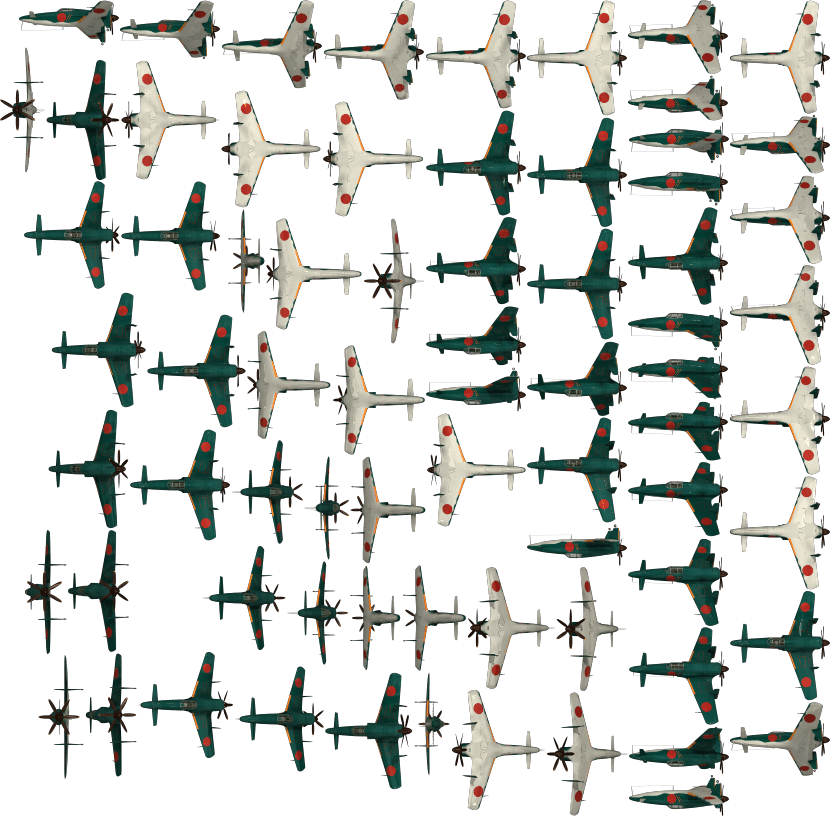
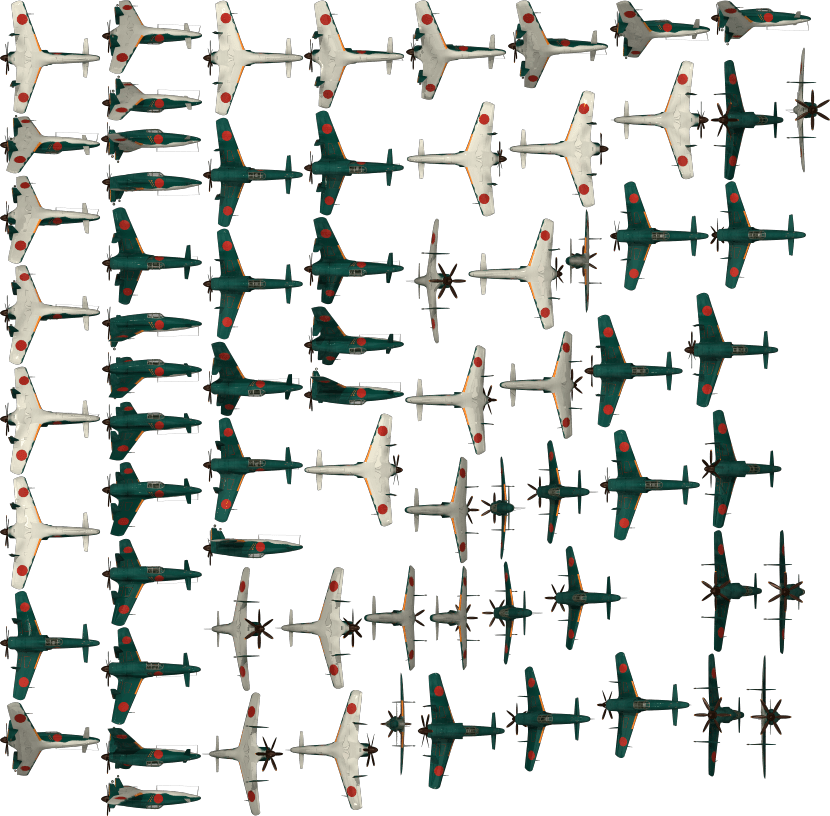
手机版章节列表可触摸滚动+滚动条；飞行员铭牌改金属铭牌样式；修正 J7W 震电图集朝向(推进式机，之前被误镜像)

diff --git a/WW1Fighters/index.html b/WW1Fighters/index.html
@@ -21351,6 +21351,8 @@ s.showTaskInfo = function() {
         this.lightMc.visible || (this.chapterName.color = t ? "#ffffff" : "#aaaaaa", this.moneyTxt.color = t ? "#ffffff" : "#aaaaaa")
       }, s.onClick = function() {
         var t = this;
+        // 手指在章节列表上拖动滚动时，抬手那下不要当成点选章节
+        if (window.__wbChapterDragging) return;
         if (0 == this._dataSource.state) this._dataSource.wnd.event("select", this._dataSource);
         else if (1 == this._dataSource.state) e = "是否花费 " + this._dataSource.money + "银币，开启该章节", i = new ur(e), b.popUpDialog(i), i.confirmHandle = _.create(this, function() {
           y.storage.silver < t._dataSource.money ? b.showMessage("银币不足") : (t._dataSource.state = 0, t._dataSource.selected = !0, y.storage.missionCfg[t._dataSource.index].state = 0, y.storage.silver -= t._dataSource.money, y.saveData(), t._dataSource.wnd.event("select", t._dataSource))
@@ -21406,7 +21408,7 @@ s.showTaskInfo = function() {
           a.init(r), a.on("click", this, this.onGameStart), a.on("mouseover", this, this.onItemOver)
         }
         for (var u = 0; u < t.length; u++) t[u].selected = !1;
-        this.setSelectChapter(t[0]), this.backBtn.on("click", this, this.onBackBtnClick), this.on("click", this, this.onMouseClick), i.stage.on("mousewheel", this, this.onWheel), i.stage.on("resize", this, this.onResize), this.initTwoPlayerUI(), this.onResize()
+        this.setSelectChapter(t[0]), this.backBtn.on("click", this, this.onBackBtnClick), this.on("click", this, this.onMouseClick), i.stage.on("mousewheel", this, this.onWheel), i.stage.on("resize", this, this.onResize), this.initTwoPlayerUI(), this.initChapterScroll(), this.onResize()
       }
       n(e, "com.ocean.ui.MissionUI", t);
       var s = e.prototype;
@@ -21460,7 +21462,63 @@ s.showTaskInfo = function() {
           $n.instance && ($n.instance.visible = !0);
         try { $n.instance && $n.instance._wbRefreshOwner && $n.instance._wbRefreshOwner() } catch (e) {}
       },
-      s.onResize = function() {
+        // ===== 手机版：左侧章节列表触摸拖动滚动 =====
+        // 原实现只监听 stage 的 mousewheel，触屏设备根本没有滚轮事件，
+        // 于是第 9/10 章（列表 384px 只放得下 8 行 x 48px）在手机上永远滑不出来。
+        // 这里补一套按下-拖动-抬手的手势：位移按行高换算成 List.startIndex。
+        s.initChapterScroll = function() {
+          if (this.__wbChScroll || !this.chapterList) return;
+          this.__wbChScroll = !0;
+          var self = this, lst = this.chapterList, drag = null;
+          lst.mouseEnabled = !0, window.__wbChapterDragging = !1;
+          var hitList = function() {
+            var p = lst.localToGlobal(new Laya.Point(0, 0));
+            if (!p) return !1;
+            var mx = i.stage.mouseX, my = i.stage.mouseY;
+            return mx >= p.x - 10 && mx <= p.x + lst.width + 10 && my >= p.y - 10 && my <= p.y + lst.height + 10;
+          };
+          lst.on("mousedown", this, function() {
+            if (!hitList()) return;
+            drag = { y: i.stage.mouseY, base: lst.startIndex || 0, moved: !1 }, window.__wbChapterDragging = !1
+          });
+          i.stage.on("mousemove", this, function() {
+            if (!drag) return;
+            var dy = i.stage.mouseY - drag.y;
+            if (!drag.moved && Math.abs(dy) < 12) return;
+            // 手指向上拖(dy<0) => 看后面的章节 => startIndex 变大
+            drag.moved = !0, window.__wbChapterDragging = !0, self.wbChSetStart(drag.base - Math.floor(dy / self.wbChRowH()))
+          });
+          i.stage.on("mouseup", this, function() {
+            // Laya 的 click 紧跟 mouseup 派发，延后一点再解除抑制，避免拖动后被当成点选
+            drag && (drag = null, i.timer.once(60, self, function() {
+              window.__wbChapterDragging = !1
+            }))
+          });
+          this.wbChUpdateBar()
+        }, s.wbChRowH = function() {
+          var lst = this.chapterList;
+          if (!lst) return 48;
+          var n = lst.getCell(lst.startIndex || 0) || lst.getCell(0);
+          return n && n.height ? n.height : 48
+        }, s.wbChMaxStart = function() {
+          var lst = this.chapterList;
+          if (!lst || !lst.array || !lst.array.length) return 0;
+          return Math.max(0, lst.array.length - Math.max(1, Math.floor(lst.height / this.wbChRowH())))
+        }, s.wbChSetStart = function(t) {
+          var lst = this.chapterList, m = this.wbChMaxStart();
+          lst && (lst.startIndex = t < 0 ? 0 : t > m ? m : t, this.wbChUpdateBar())
+        }, s.wbChUpdateBar = function() {
+          var lst = this.chapterList;
+          if (!lst) return;
+          var m = this.wbChMaxStart();
+          this.chBar || (this.chBar = new Gi, this.chBar.mouseEnabled = !1, this.addChild(this.chBar));
+          var b = this.chBar, W = 5, H = lst.height;
+          if (b.pos(lst.x + lst.width - W - 2, lst.y), b.visible = m > 0, m <= 0) return;
+          var vis = Math.max(1, Math.floor(H / this.wbChRowH())),
+            th = Math.max(24, H * vis / lst.array.length),
+            ty = (H - th) * (lst.startIndex || 0) / m;
+          b.graphics.clear(), b.graphics.drawRect(0, 0, W, H, "rgba(0,0,0,0.35)"), b.graphics.drawRect(0, ty, W, th, "#e8c56a"), b.repaint()
+        }, s.onResize = function() {
         this.bkImg.width = i.stage.width, this.maskImg.width = i.stage.width, this.moneyBar.x = i.stage.width - 614, this.itemBox.x = i.stage.width / 2 + 40, this.infoPanel.x = i.stage.width - 290, this.y = (i.stage.height - 750) / 2, this.itemBox.width = this.map12.x + this.map12.width, this.itemBox.height = this.map12.y + this.map12.height
       }, s.onSelectChapter = function(t) {
         this.setSelectChapter(t)
@@ -21517,7 +21575,7 @@ s.showTaskInfo = function() {
               s = Math.max(1, Math.floor(e.height / r)),
               a = Math.max(0, e.array.length - s),
               h = e.startIndex + (t.delta > 0 ? -1 : 1);
-            e.startIndex = 0 > h ? 0 : h > a ? a : h
+            this.wbChSetStart(h)
           }
         }
       }, s.onBackBtnClick = function() {
@@ -22282,20 +22340,49 @@ s.showTaskInfo = function() {
           i = Math.floor(t % 3600 / 60),
           s = t % 60;
         return e > 0 ? e + "小时" + i + "分" : i > 0 ? i + "分" + s + "秒" : s + "秒"
-      }, s.initPilotPlate = function() {
-        var t = new Gi,
-          e = 210,
-          i = 46;
-        t.size(e, i), t.pos(16, 14), t.graphics.drawRect(0, 0, e, i, "#0b1d2be6", "#e8c56a", 2);
-        var s = new us;
-        s.text = y.storage.pilotName || "飞行员", s.font = "SimHei", s.fontSize = 22, s.color = "#ffe9a8", s.width = e, s.align = "center", s.y = 9, t.addChild(s), t.mouseEnabled = !0, t.on("click", this, this.onPilotPlateClick), t.on("mouseover", this, function() {
-          s.color = "#ffffff"
-        }), t.on("mouseout", this, function() {
-          s.color = "#ffe9a8"
-        }), this.addChild(t), this.pilotPlate = t, this.pilotNameTxt = s
-      }, s.refreshPilotPlate = function() {
-        this.pilotNameTxt && (this.pilotNameTxt.text = y.storage.pilotName || "飞行员")
-      }, s.onPilotPlateClick = function() {
+      },
+        // 飞行员铭牌：做成"金属铭牌 + 军徽 + 战绩副行"的样式（原来只是一块纯色矩形 + 居中文字）
+        // 配色沿用科技树/档案面板的金蓝主色：#0a1522 底 / #132a42 内板 / #e8c56a 金线 / #ffe9a8 字
+        s.initPilotPlate = function() {
+          var t = new Gi,
+            e = 252,
+            n = 54,
+            g = t.graphics,
+            // hot = 悬停态：整块铭牌提亮（描边变亮金、内板变浅、副行文字提亮）
+            draw = function(hot) {
+              g.clear(),
+                g.drawRect(0, 0, e, n, "#0a1522", hot ? "#ffe9a8" : "#8f7433", 2),
+                g.drawRect(3, 3, e - 6, n - 6, hot ? "#1c3d5c" : "#132a42"),
+                g.drawRect(3, 3, e - 6, n - 6, hot ? "#ffe9a8" : "#c9a44a", 1),
+                g.drawRect(4, 4, e - 8, 9, hot ? "#2a5378" : "#1d3a56"),
+                // 左侧军徽底框 + 四角铆钉
+                g.drawRect(9, 9, 36, 36, "#0d2033", hot ? "#ffe9a8" : "#c9a44a", 1),
+                g.drawCircle(13, 13, 2, "#c9a44a"), g.drawCircle(41, 13, 2, "#c9a44a"),
+                g.drawCircle(13, 41, 2, "#c9a44a"), g.drawCircle(41, 41, 2, "#c9a44a"),
+                // 姓名下的金色分隔线
+                g.drawLine(54, 33, e - 14, 33, hot ? "#ffe9a8" : "#8f7433", 1),
+                t.repaint()
+            };
+          t.size(e, n), t.pos(16, 12), t.mouseEnabled = !0, draw(!1);
+          // 军徽：复用主图集的金星
+          var star = new ks;
+          star.skin = "main/starGlod.png", star.anchorX = star.anchorY = .5, star.pos(27, 27), star.scale(.9, .9), star.mouseEnabled = !1, t.addChild(star);
+          var s = new us;
+          s.text = y.storage.pilotName || "飞行员", s.font = "SimHei", s.fontSize = 22, s.bold = !0, s.color = "#ffe9a8", s.stroke = 3, s.strokeColor = "#20160a", s.width = e - 68, s.align = "left", s.pos(54, 4), s.mouseEnabled = !1, t.addChild(s);
+          var sub = new us;
+          sub.font = "SimHei", sub.fontSize = 13, sub.color = "#9fb8cc", sub.width = e - 68, sub.align = "left", sub.pos(54, 35), sub.mouseEnabled = !1, t.addChild(sub), this.pilotSubTxt = sub;
+          t.on("click", this, this.onPilotPlateClick);
+          var self = this;
+          t.on("mouseover", this, function() {
+            draw(!0), s.color = "#ffffff", sub.color = "#d8e8f5"
+          }), t.on("mouseout", this, function() {
+            draw(!1), s.color = "#ffe9a8", sub.color = "#9fb8cc"
+          });
+          this.addChild(t), this.pilotPlate = t, this.pilotNameTxt = s, this.refreshPilotPlate()
+        }, s.refreshPilotPlate = function() {
+          this.pilotNameTxt && (this.pilotNameTxt.text = y.storage.pilotName || "飞行员");
+          this.pilotSubTxt && (this.pilotSubTxt.text = "击落 " + (y.storage.killCount || 0) + " · 查看档案")
+        }, s.onPilotPlateClick = function() {
         this.showPilotPanel()
       }, s.closePilotPanel = function() {
         // 成就区滚动：卸载原生监听（滚轮 / 拖拽），避免面板关掉后仍在响应
